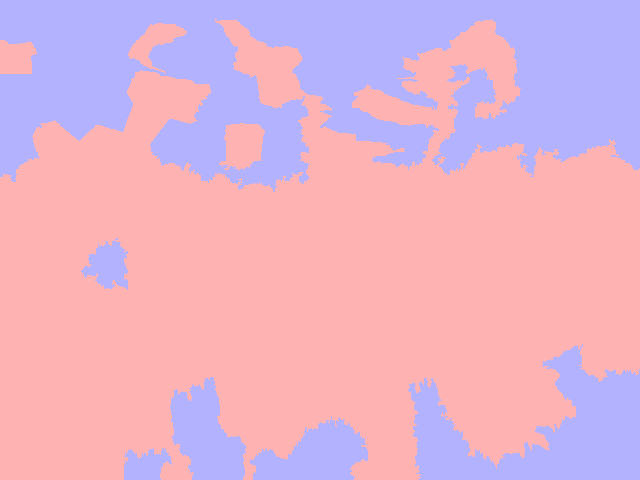
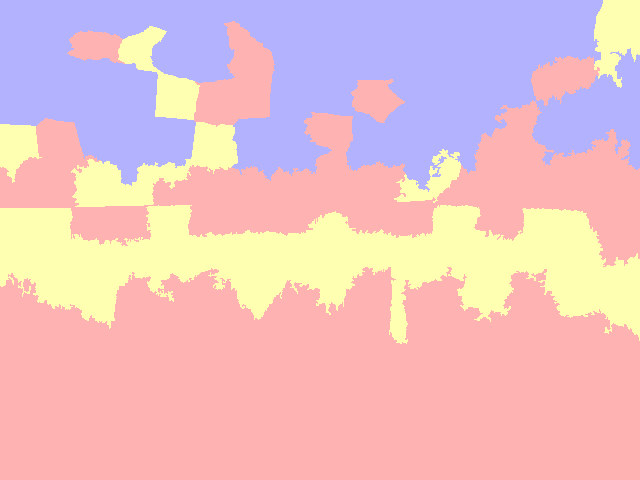
HW3 Finalize

diff --git a/HW3/src/main.py b/HW3/src/main.py
@@ -23,9 +23,9 @@ images, _ = load_images()
 image = images[1]
 
 # ------- Parameters --------
-num_of_super_pixels = 300
-num_of_clusters = 2
-compactness = 5
+num_of_super_pixels = 200
+num_of_clusters = 3
+compactness = 10
 wavelengths = [2, 4, 6, 8]
 orientations = [30, 50, 70, 90]
 # ---------------------------
@@ -33,7 +33,18 @@ orientations = [30, 50, 70, 90]
 # For keeping labels of each image in dataset
 images_labels = []
 
+print("-- Parameters --")
+print("\tNumber of Super pixels:", num_of_super_pixels)
+print("\tCompactness:", compactness)
+print("\tWavelengths (for Gabor filtering):", *wavelengths)
+print("\tOrientations (for Gabor filtering):", *orientations)
+print("\tNumber of clusters:", num_of_clusters)
+print("\n********************* \n")
+
 # -- Part 1 --
+
+print("--- PART 1 ---")
+
 for i, image in enumerate(images):
 	# Segmenting
 	labels = slic(image, num_of_super_pixels, compactness)
@@ -42,17 +53,26 @@ for i, image in enumerate(images):
 	# Keeping labels
 	images_labels.append(labels)
 
+	print(f"\tSLIC algorithm is applied for image {i}")
+
 	# Saving results
 	plt.imsave('../output/slic/segmented' + str(i) + '.png', segmented_image)
+
+print("\n********************* \n")
 
 # For keeping all average Gabors
 all_data = None
 super_pixel_count = []
 
+print("--- PART 2 ---")
+
 # -- Part 2 --
+
 for i, image in enumerate(images):
 	# Gabor features and average gabors
 	result_images, average_gabors = gabor_feature_extractions(image, labels, wavelengths, orientations)
+
+	print(f"\tGabor filter extraction for image {i}")
 
 	# Saving Gabor results
 	for img in result_images:
@@ -67,18 +87,22 @@ for i, image in enumerate(images):
 	# Keeping super pixel counts
 	super_pixel_count.append(average_gabors.shape[0])
 
+print("\n********************* \n")
+
+print("--- PART 3 ---")
 
 # -- Part 3 --
 
 # Applying the K-Means
 clusters = apply_k_means(np.float32(all_data), num_of_clusters, images, images_labels, super_pixel_count)
 
+print(f"\tApplying K-means...")
+
 # Saving the clusters
 for i, cluster in enumerate(clusters):
-	overlay_img = label2rgb(cluster, images[i], image_alpha=0)
-	plt.imsave('../output/cluster/cluster' + str(i) + '.png', overlay_img)
+	false_color_img = label2rgb(cluster, images[i], image_alpha=0)
+	plt.imsave('../output/cluster/cluster' + str(i) + '.png', false_color_img)
 
-
-
+print("\n***** Processes finished! *****\n")
 
 
